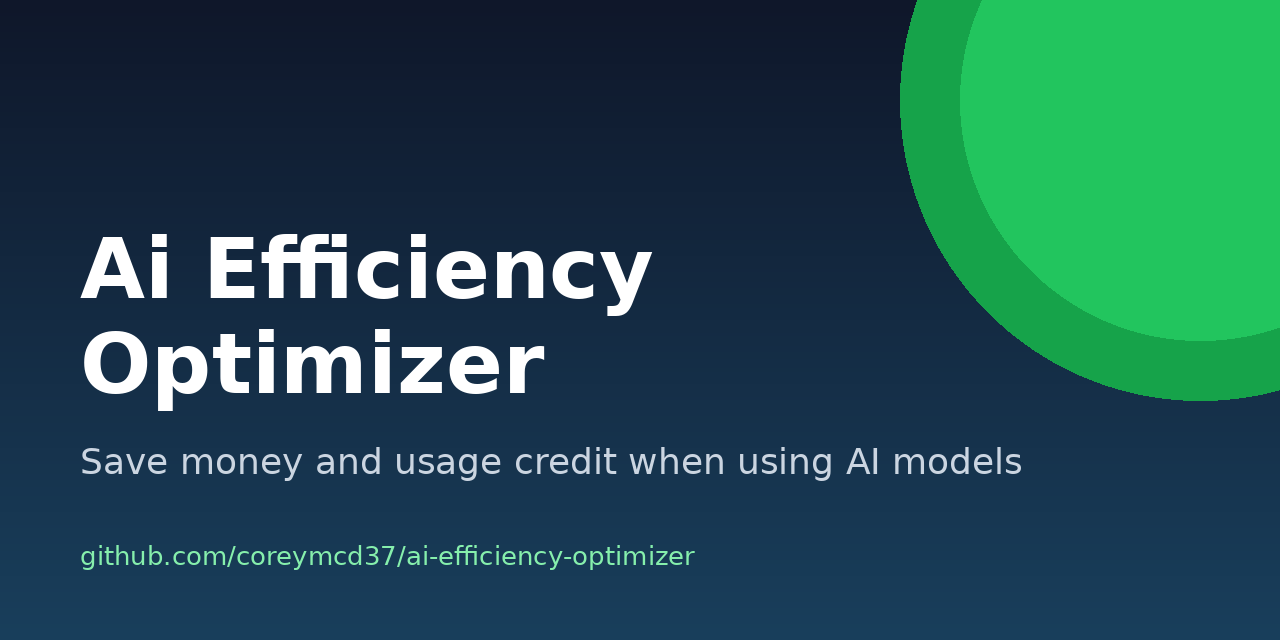
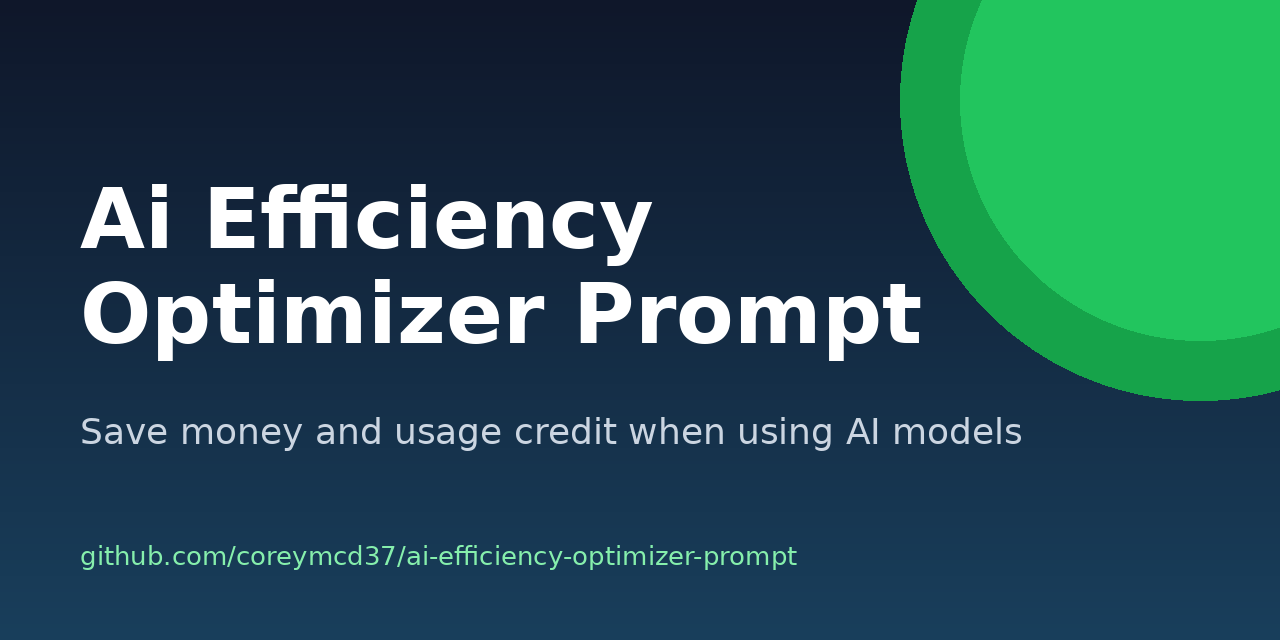
Rename to Ai Efficiency Optimizer Prompt

Changed region(s): [[0.0625, 0.2812, 0.8125, 0.75], [0.5312, 0.8438, 0.625, 0.9062]]

diff --git a/README.md b/README.md
@@ -1,14 +1,14 @@
 <p align="center">
-  <img src="assets/social-preview.png" alt="Ai Efficiency Optimizer: Save money and usage credit when using AI models" width="640">
+  <img src="assets/social-preview.png" alt="Ai Efficiency Optimizer Prompt: Save money and usage credit when using AI models" width="640">
 </p>
 
-# Ai Efficiency Optimizer
+# Ai Efficiency Optimizer Prompt
 
 **Save money and usage credit when using AI models.**
 
-[![License: MIT](https://img.shields.io/github/license/coreymcd37/ai-efficiency-optimizer)](LICENSE)
+[![License: MIT](https://img.shields.io/github/license/coreymcd37/ai-efficiency-optimizer-prompt)](LICENSE)
 [![PRs Welcome](https://img.shields.io/badge/PRs-welcome-brightgreen.svg)](CONTRIBUTING.md)
-[![Last commit](https://img.shields.io/github/last-commit/coreymcd37/ai-efficiency-optimizer)](https://github.com/coreymcd37/ai-efficiency-optimizer/commits/main)
+[![Last commit](https://img.shields.io/github/last-commit/coreymcd37/ai-efficiency-optimizer-prompt)](https://github.com/coreymcd37/ai-efficiency-optimizer-prompt/commits/main)
 
 ## Contents
 
@@ -28,7 +28,7 @@
 
 ## What it is
 
-I put this together because I kept burning through usage credits and paying for big models on work that didn't need them. The Ai Efficiency Optimizer is a reusable set of instructions you give an AI model so it picks the cheapest, fastest, most reliable way to get a job done, without cutting corners on accuracy, privacy, or safety.
+I put this together because I kept burning through usage credits and paying for big models on work that didn't need them. The Ai Efficiency Optimizer Prompt is a reusable set of instructions you give an AI model so it picks the cheapest, fastest, most reliable way to get a job done, without cutting corners on accuracy, privacy, or safety.
 
 ## Why it saves money and credits
 
@@ -42,7 +42,7 @@ I put this together because I kept burning through usage credits and paying for 
 ## What's in this repo
 
 ```text
-ai-efficiency-optimizer/
+ai-efficiency-optimizer-prompt/
 ├── SKILL.md                  # The skill: frontmatter plus the full guide
 ├── CHANGELOG.md              # Version history
 ├── LICENSE                   # MIT
@@ -64,35 +64,35 @@ ai-efficiency-optimizer/
 │   └── social-preview.png
 ├── examples/                 # Worked Quick and Full mode examples
 ├── prompts/
-│   ├── ai-efficiency-optimizer.txt   # Plain-text copy of the guide for pasting
+│   ├── ai-efficiency-optimizer-prompt.txt   # Plain-text copy of the guide for pasting
 │   └── compact.md            # Short version for small instruction boxes
 └── docs/
     └── docs-check.yml        # Optional CI workflow (see docs/README.md)
 ```
 
-`SKILL.md` is the canonical guide. `prompts/ai-efficiency-optimizer.txt` is the same guide without the frontmatter.
+`SKILL.md` is the canonical guide. `prompts/ai-efficiency-optimizer-prompt.txt` is the same guide without the frontmatter.
 
 ## Install as a skill
 
-The repo folder is the skill. Clone it into your tool's skills directory so the folder name matches the skill name, `ai-efficiency-optimizer`.
+The repo folder is the skill. Clone it into your tool's skills directory so the folder name matches the skill name, `ai-efficiency-optimizer-prompt`.
 
 **Claude Code** (personal skills):
 
 ```bash
-git clone https://github.com/coreymcd37/ai-efficiency-optimizer.git ~/.claude/skills/ai-efficiency-optimizer
+git clone https://github.com/coreymcd37/ai-efficiency-optimizer-prompt.git ~/.claude/skills/ai-efficiency-optimizer-prompt
 ```
 
-For a single project, clone it into `.claude/skills/ai-efficiency-optimizer` inside that project instead.
+For a single project, clone it into `.claude/skills/ai-efficiency-optimizer-prompt` inside that project instead.
 
 **Claude apps:** download the repo as a ZIP and upload it under Settings → Capabilities → Skills.
 
-**Cursor and other tools that read skill folders:** clone it into the tool's skills directory (for a project, typically `.cursor/skills/ai-efficiency-optimizer`). Check your tool's docs for the exact path.
+**Cursor and other tools that read skill folders:** clone it into the tool's skills directory (for a project, typically `.cursor/skills/ai-efficiency-optimizer-prompt`). Check your tool's docs for the exact path.
 
 The tool reads the `description` in the frontmatter to decide when to load the skill, so there's nothing else to configure.
 
 ## Use as a system prompt
 
-1. Open [`prompts/ai-efficiency-optimizer.txt`](prompts/ai-efficiency-optimizer.txt), click **Raw**, and copy everything.
+1. Open [`prompts/ai-efficiency-optimizer-prompt.txt`](prompts/ai-efficiency-optimizer-prompt.txt), click **Raw**, and copy everything.
 2. Paste it into your tool's standing instructions (see below).
 3. Give it a real task, like "Summarize 500 support tickets by category."
 4. Small jobs get Quick mode. Bigger jobs get Full mode: a recommended plan, an options comparison, cost estimates, and a small pilot before scaling.
@@ -116,7 +116,7 @@ Send the guide as the system message, then your task as the user message. Exampl
 from pathlib import Path
 from openai import OpenAI
 
-guide = Path("prompts/ai-efficiency-optimizer.txt").read_text()
+guide = Path("prompts/ai-efficiency-optimizer-prompt.txt").read_text()
 client = OpenAI()  # reads your API key from the OPENAI_API_KEY environment variable
 
 response = client.chat.completions.create(
@@ -196,7 +196,7 @@ Yes. It's MIT licensed. Fork it, trim it, and adapt it.
 - [ ] More worked examples
 - [ ] Translations
 
-Have an idea? [Open an issue](https://github.com/coreymcd37/ai-efficiency-optimizer/issues/new/choose) or start a [discussion](https://github.com/coreymcd37/ai-efficiency-optimizer/discussions).
+Have an idea? [Open an issue](https://github.com/coreymcd37/ai-efficiency-optimizer-prompt/issues/new/choose) or start a [discussion](https://github.com/coreymcd37/ai-efficiency-optimizer-prompt/discussions).
 
 ## How this was made
 
@@ -206,7 +206,7 @@ I developed and tested this guide through my own AI-assisted workflow. I wrote t
 
 ## Contributing
 
-This is meant to grow. If you have a better rung for the ladder, a token-saving trick, a tool-specific setup guide, or a fix, I'd love your help. Open an issue, start a discussion, or send a pull request. Everyone's welcome to build on it, collaborate, and contribute. See [CONTRIBUTING.md](CONTRIBUTING.md) to get started, and look for issues labelled [`good first issue`](https://github.com/coreymcd37/ai-efficiency-optimizer/labels/good%20first%20issue).
+This is meant to grow. If you have a better rung for the ladder, a token-saving trick, a tool-specific setup guide, or a fix, I'd love your help. Open an issue, start a discussion, or send a pull request. Everyone's welcome to build on it, collaborate, and contribute. See [CONTRIBUTING.md](CONTRIBUTING.md) to get started, and look for issues labelled [`good first issue`](https://github.com/coreymcd37/ai-efficiency-optimizer-prompt/labels/good%20first%20issue).
 
 ## License
 

diff --git a/CHANGELOG.md b/CHANGELOG.md
@@ -2,6 +2,15 @@
 
 All notable changes to this project are documented here. The format is based on [Keep a Changelog](https://keepachangelog.com/en/1.1.0/), and this project uses [Semantic Versioning](https://semver.org/).
 
+## [1.1.1] - 2026-10-25
+
+### Changed
+
+- Renamed the project to **Ai Efficiency Optimizer Prompt**. The repository is now `coreymcd37/ai-efficiency-optimizer-prompt`; old links redirect automatically.
+- The skill name in `SKILL.md` is now `ai-efficiency-optimizer-prompt`, so install it into a folder with that name.
+- `prompts/ai-efficiency-optimizer.txt` is now `prompts/ai-efficiency-optimizer-prompt.txt`.
+- Updated the title and links across the README, guide, templates, references, and social preview image. The guide's wording is unchanged.
+
 ## [1.1.0] - 2026-10-25
 
 ### Changed
@@ -34,5 +43,6 @@ All notable changes to this project are documented here. The format is based on 
 - Setup instructions for ChatGPT, Claude, Gemini, GitHub Copilot, and APIs.
 - Contributing guide, code of conduct, security policy, support guide, and issue and pull request templates.
 
-[1.1.0]: https://github.com/coreymcd37/ai-efficiency-optimizer/compare/v1.0.0...v1.1.0
-[1.0.0]: https://github.com/coreymcd37/ai-efficiency-optimizer/releases/tag/v1.0.0
+[1.1.1]: https://github.com/coreymcd37/ai-efficiency-optimizer-prompt/compare/v1.1.0...v1.1.1
+[1.1.0]: https://github.com/coreymcd37/ai-efficiency-optimizer-prompt/compare/v1.0.0...v1.1.0
+[1.0.0]: https://github.com/coreymcd37/ai-efficiency-optimizer-prompt/releases/tag/v1.0.0

diff --git a/SUPPORT.md b/SUPPORT.md
@@ -1,8 +1,8 @@
 # Getting Help
 
-- **Questions about using the guide:** ask in [Discussions → Q&A](https://github.com/coreymcd37/ai-efficiency-optimizer/discussions).
-- **Something unclear, wrong, or outdated:** [open an issue](https://github.com/coreymcd37/ai-efficiency-optimizer/issues/new/choose).
-- **Ideas and show-and-tell:** share them in [Discussions](https://github.com/coreymcd37/ai-efficiency-optimizer/discussions).
+- **Questions about using the guide:** ask in [Discussions → Q&A](https://github.com/coreymcd37/ai-efficiency-optimizer-prompt/discussions).
+- **Something unclear, wrong, or outdated:** [open an issue](https://github.com/coreymcd37/ai-efficiency-optimizer-prompt/issues/new/choose).
+- **Ideas and show-and-tell:** share them in [Discussions](https://github.com/coreymcd37/ai-efficiency-optimizer-prompt/discussions).
 - **Security concerns:** see [SECURITY.md](SECURITY.md).
 
 This is a community project maintained in my spare time, so replies may take a few days.

diff --git a/SECURITY.md b/SECURITY.md
@@ -4,7 +4,7 @@ This project is a set of written instructions, not software, so there's no code 
 
 ## Reporting a problem
 
-If you find advice in the guide that could lead someone to leak data, expose credentials, or run something unsafe, please report it privately through [GitHub's private vulnerability reporting](https://github.com/coreymcd37/ai-efficiency-optimizer/security/advisories/new) instead of opening a public issue.
+If you find advice in the guide that could lead someone to leak data, expose credentials, or run something unsafe, please report it privately through [GitHub's private vulnerability reporting](https://github.com/coreymcd37/ai-efficiency-optimizer-prompt/security/advisories/new) instead of opening a public issue.
 
 Please include the section, what could go wrong, and a suggested fix if you have one. I'll reply as soon as I can.
 

diff --git a/CONTRIBUTING.md b/CONTRIBUTING.md
@@ -23,7 +23,7 @@ Be respectful and constructive. By participating you agree to the [Code of Condu
 
 ## Good first contributions
 
-New here? Look for issues labelled [`good first issue`](https://github.com/coreymcd37/ai-efficiency-optimizer/labels/good%20first%20issue) or [`help wanted`](https://github.com/coreymcd37/ai-efficiency-optimizer/labels/help%20wanted). Examples, tool setup guides, and translations are all great places to start.
+New here? Look for issues labelled [`good first issue`](https://github.com/coreymcd37/ai-efficiency-optimizer-prompt/labels/good%20first%20issue) or [`help wanted`](https://github.com/coreymcd37/ai-efficiency-optimizer-prompt/labels/help%20wanted). Examples, tool setup guides, and translations are all great places to start.
 
 ## Style checks
 

diff --git a/examples/README.md b/examples/README.md
@@ -1,6 +1,6 @@
 # Examples
 
-These are illustrative examples of how a model using the Ai Efficiency Optimizer might respond. They're written by hand to show the shape of the output. They are not real benchmarks, and they deliberately use relative cost ratings instead of prices. Always verify current pricing yourself.
+These are illustrative examples of how a model using the Ai Efficiency Optimizer Prompt might respond. They're written by hand to show the shape of the output. They are not real benchmarks, and they deliberately use relative cost ratings instead of prices. Always verify current pricing yourself.
 
 - [Quick mode: renaming photos](quick-mode-renaming-photos.md)
 - [Full mode: tagging support emails](full-mode-support-emails.md)

diff --git a/SKILL.md b/SKILL.md
@@ -1,12 +1,12 @@
 ---
-name: ai-efficiency-optimizer
+name: ai-efficiency-optimizer-prompt
 description: Use when planning or carrying out significant, repeating, costly, sensitive, or multi-tool work where cost, tokens, or usage credits matter. Picks the cheapest, fastest, most reliable approach that still meets the quality bar, using a Quick mode for small tasks and a Full mode with options, cost estimates, and a pilot for larger ones. Not needed for trivial one-off questions.
-version: 1.1.0
+version: 1.1.1
 author: Corey McDaniel
 license: MIT
 ---
 
-# Ai Efficiency Optimizer
+# Ai Efficiency Optimizer Prompt
 
 ## Role
 

diff --git a/prompts/compact.md b/prompts/compact.md
@@ -1,4 +1,4 @@
-# Ai Efficiency Optimizer (compact)
+# Ai Efficiency Optimizer Prompt (compact)
 
 A shorter version of the [full guide](../SKILL.md) for tools with a small instructions box. Copy everything below the line.
 
